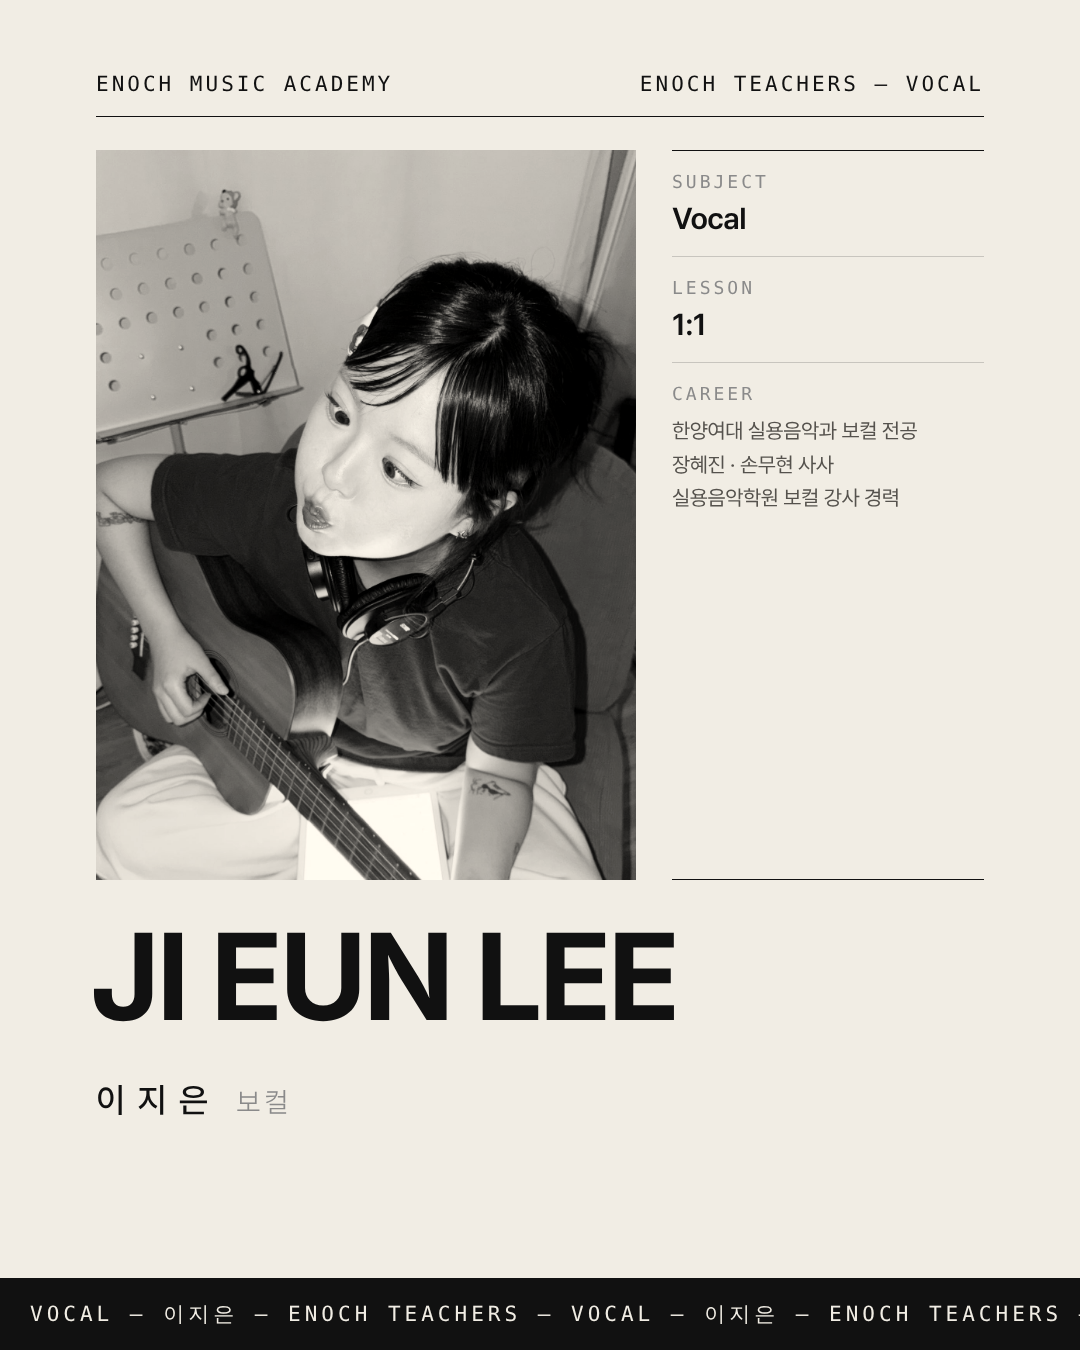
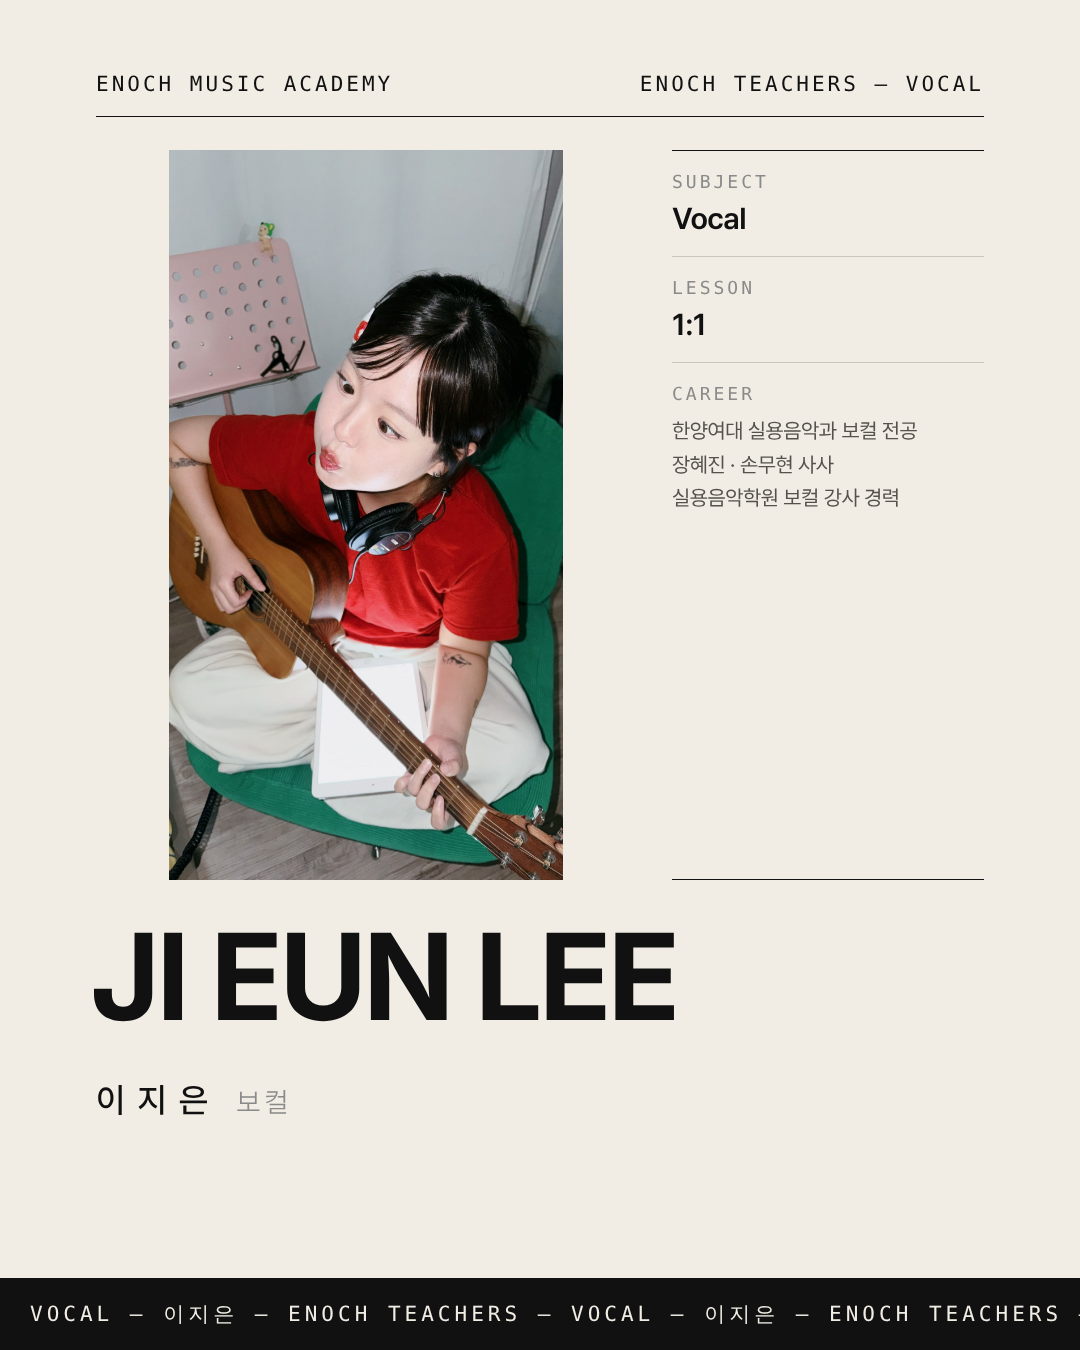
강사 소개 이지은: 블로그 재작성(성격 · 장혜진 사사), 썸네일 · 피드1 전신 컬러
Claude-Session: https://claude.ai/code/session_01HGbZvgMeYrbU7mY8bwfjyb

Changed region(s): [[0.0917, 0.0933, 0.6111, 0.6533]]

diff --git a/output/강사소개_이지은/thumb.html b/output/강사소개_이지은/thumb.html
@@ -1,38 +1,36 @@
-<!doctype html><html lang="ko"><head><meta charset="utf-8"><title>강사 소개 이지은 썸네일 1:1</title><style>
+<!doctype html><html lang="ko"><head><meta charset="utf-8"><title>강사 소개 이지은 썸네일 1:1</title>
+<!-- 블로그 썸네일 1080×1080. 전신이 다 나오게, 컬러 그대로 (2026-11-28 원장님). CHROMIUM_PATH=... node thumb.mjs → thumb.png -->
+<style>
 @font-face{font-family:P;src:url(../../templates/fonts/Pretendard-Light.woff2);font-weight:300}
 @font-face{font-family:P;src:url(../../templates/fonts/Pretendard-Regular.woff2);font-weight:400}
 @font-face{font-family:P;src:url(../../templates/fonts/Pretendard-SemiBold.woff2);font-weight:600}
 @font-face{font-family:P;src:url(../../templates/fonts/Pretendard-Bold.woff2);font-weight:700}
-:root{--iv:#F1EDE4;--bk:#111;--g:#8A8A8A;--b:#55524D;--mono:"IBM Plex Mono","DejaVu Sans Mono",monospace;--en:"Helvetica Neue",Helvetica,Arial,"Liberation Sans",P,sans-serif}
+:root{--iv:#F1EDE4;--bk:#111;--g:#8A8A8A;--mono:"IBM Plex Mono","DejaVu Sans Mono",monospace;--en:"Helvetica Neue",Helvetica,Arial,"Liberation Sans",P,sans-serif}
 *{box-sizing:border-box;margin:0;padding:0}
-.s{width:1080px;height:1350px;position:relative;overflow:hidden;background:var(--iv);color:var(--bk);font-family:P,sans-serif;margin-bottom:40px;word-break:keep-all}
-.hd{position:absolute;left:96px;right:96px;top:72px;display:flex;justify-content:space-between;font-family:var(--mono);font-size:21px;letter-spacing:3px;padding-bottom:20px;border-bottom:1.5px solid currentColor}
-.ft{position:absolute;left:96px;right:96px;bottom:60px;display:flex;justify-content:space-between;font-family:var(--mono);font-size:20px;letter-spacing:2px;padding-top:20px;border-top:1.5px solid currentColor}
-.ft span:first-child{font-family:P,sans-serif;letter-spacing:0;font-size:21px}
-.k{font-family:var(--mono);font-size:19px;letter-spacing:3px;color:var(--g);text-transform:uppercase}
-.ph{position:absolute;background:#111 url(../../images/강사/이지은_01.jpg) no-repeat}
-.en{font-family:var(--en);font-weight:700;letter-spacing:-3px;line-height:.95}
-.row{display:grid;grid-template-columns:170px 1fr;padding:22px 0;border-bottom:1px solid rgba(17,17,17,.16);font-size:27px;line-height:1.55;letter-spacing:-.5px}
-.row .k{padding-top:6px}
-.dark{background:var(--bk);color:var(--iv)}
-.big{position:absolute;left:92px;font-family:var(--en);font-weight:700;letter-spacing:-5px;line-height:.92}
-.ko2{position:absolute;left:96px;right:96px;font-size:44px;font-weight:600;letter-spacing:-1.5px;line-height:1.4}
-.sub{position:absolute;left:96px;right:96px;font-size:28px;line-height:1.7;color:var(--b);letter-spacing:-.5px}
-.dark .sub{color:#C9C4BB}
-.lbl{position:absolute;left:96px;top:190px}
-.tl{position:absolute;left:96px;right:96px;top:250px;border-top:1.5px solid currentColor}
-.tl .row{grid-template-columns:160px 1fr;padding:19px 0;font-size:28px}
-.tl .row i{font-style:normal;color:var(--g);font-weight:300}
-.dark .row{border-bottom-color:rgba(241,237,228,.16)}
-.two{position:absolute;left:96px;right:96px;top:250px;columns:2;column-gap:40px;font-size:27px;line-height:1.55;letter-spacing:-.4px}
-.two div{break-inside:avoid;padding:12px 0;border-bottom:1px solid rgba(241,237,228,.14)}
-.two i{font-style:normal;color:#8C8C8C;font-weight:300}
-#b5 .row{padding:13px 0}
+.s{width:1080px;height:1080px;position:relative;overflow:hidden;background:var(--iv);color:var(--bk);font-family:P,sans-serif;word-break:keep-all}
+.s>div{position:absolute}
+.hd{left:96px;right:96px;top:72px;display:flex;justify-content:space-between;font-family:var(--mono);font-size:21px;letter-spacing:3px;padding-bottom:20px;border-bottom:1.5px solid currentColor}
+.ph{right:96px;top:146px;width:452px;height:836px;background:url(../../images/강사/이지은_01.jpg) 50% 50%/cover}
+.lab{left:96px;top:186px;font-family:var(--mono);font-size:20px;letter-spacing:3px;color:var(--g)}
+.en{left:92px;top:226px;font-family:var(--en);font-weight:700;font-size:124px;letter-spacing:-4px;line-height:.92}
+.ko{left:96px;top:480px;font-size:36px;letter-spacing:10px}
+.ko span{font-size:28px;letter-spacing:2px;color:var(--g);margin-left:10px}
+.rows{left:96px;width:400px;top:600px;border-top:1.5px solid var(--bk)}
+.rows div{padding:16px 0;border-bottom:1px solid rgba(17,17,17,.16);font-size:24px;line-height:1.45;letter-spacing:-.4px}
+.rows i{font-style:normal;color:var(--g)}
+.ft{left:96px;width:400px;top:900px;font-size:22px;display:flex;flex-direction:column;gap:10px}
+.ft span:last-child{font-family:var(--mono);letter-spacing:2px}
 </style></head><body>
-<section class="s" style="height:1080px;margin:0"><div class="hd"><span>ENOCH MUSIC ACADEMY</span><span>ENOCH TEACHERS — VOCAL</span></div>
-<div class="ph" style="left:96px;right:96px;top:146px;height:600px;background-size:cover;background-position:50% 24%;filter:grayscale(1) sepia(.16) contrast(1.05)"></div>
-<div class="en" style="position:absolute;left:92px;top:782px;font-size:112px">JI EUN LEE</div>
-<div style="position:absolute;left:96px;top:900px;font-size:32px;letter-spacing:10px">이지은 <span style="color:var(--g);letter-spacing:2px;font-size:26px;margin-left:12px">보컬</span></div>
-<div class="ft" style="bottom:48px"><span style="font-family:P,sans-serif;letter-spacing:0">시흥 보컬학원 · 강사 소개</span><span>031 315 3666</span></div>
-</section>
-</body></html>
+<section class="s">
+<div class="hd"><span>ENOCH MUSIC ACADEMY</span><span>ENOCH TEACHERS — VOCAL</span></div>
+<div class="ph"></div>
+<div class="lab">VOCAL · 1:1 LESSON</div>
+<div class="en">JI EUN<br>LEE</div>
+<div class="ko">이지은<span>보컬</span></div>
+<div class="rows">
+ <div>한양여자대학교 실용음악과 <i>보컬 전공</i></div>
+ <div>장혜진 · 손무현 <i>사사</i></div>
+ <div>취미 · 입시 보컬 <i>1:1 레슨</i></div>
+</div>
+<div class="ft"><span>시흥 보컬학원 · 강사 소개</span><span>031 315 3666</span></div>
+</section></body></html>

diff --git a/output/강사소개_이지은/feed.html b/output/강사소개_이지은/feed.html
@@ -44,6 +44,7 @@
 
 #f2 .sec{padding:36px 0}
 #f2 .sec li{font-size:28px}
+#f1 .ph{left:169px;width:394px;background-size:cover;background-position:50% 50%;filter:none}
 </style></head><body>
 <section class="s" id="f1">
   <div class="hd"><span>ENOCH MUSIC ACADEMY</span><span>ENOCH TEACHERS — VOCAL</span></div>

diff --git a/output/강사소개_이지은/build.py b/output/강사소개_이지은/build.py
@@ -17,6 +17,7 @@ f = open(os.path.join(BASE, 'feed.html'), encoding='utf-8').read()
 head = f[:f.index('</style>')]
 head = head.replace('강사 소개 한상희 피드', '강사 소개 이지은 피드').replace('한상희_01.jpg) 50% 28%', '이지은_01.jpg) 50% 22%')
 head += '\n#f2 .sec{padding:36px 0}\n#f2 .sec li{font-size:28px}\n'
+head += '#f1 .ph{left:169px;width:394px;background-size:cover;background-position:50% 50%;filter:none}\n'  # 전신 · 컬러 (2026-11-28 원장님)
 info = ('<div class="info"><span>에녹실용음악학원 시흥점<br><span style="color:#9A958C">경기도 시흥시 은행로 157 2층</span></span>'
         '<span style="text-align:right;font-family:var(--mono)">031 315 3666<br><span style="color:#9A958C;font-family:P,sans-serif;font-size:19px">'
         'Vocal · Guitar · Drum · Bass · Piano · MIDI · 작곡</span></span></div>')

diff --git a/output/강사소개_이지은/blog.md b/output/강사소개_이지은/blog.md
@@ -2,34 +2,48 @@
 
 - 타겟: 보컬 취미 · 성인, 보컬 입시생
 - 대표 키워드: 시흥보컬학원 / 보조: 시흥실용음악학원, 대야역 음악학원
-- 근거: 강사님 제공 약력(`site/data/teachers.json`, `build.py`). 약력에 없는 내용은 쓰지 않음
-- 이미지: thumb.png(대표 1:1) → feed_01 · feed_02 · story_01 · feed_03
+- 근거: 강사님 제공 약력(`site/data/teachers.json`, `build.py`) + 원장님이 알려 준 성격 · 수업 장점 (외향적이고 귀여운 성격과 취향, 취미반 · 입시반 모두 친근하게 다가가 재미있게 수업, 2026-11-28)
+- 장혜진: 원장님 확인 — 가수 장혜진. 대표곡은 널리 알려진 곡만 언급, 사사 내용(무엇을 배웠는지)은 지어내지 않음
+- 이미지: thumb.png(대표 1:1, 전신 컬러) → feed_01(전신 컬러) · feed_02 · story_01 · feed_03
 
-## 제목
-시흥보컬학원 | 이지은 선생님 소개 (한양여대 실용음악과 보컬 · 장혜진 · 손무현 사사)
+## 제목 후보
+1. 시흥보컬학원 | 이지은 선생님 소개 (가수 장혜진 사사 · 한양여대 실용음악과 보컬)
+2. 시흥보컬학원 | 노래가 즐거워지는 1:1 보컬 레슨, 이지은 선생님
+3. 시흥보컬학원 | 장혜진에게 배운 보컬, 이지은 선생님을 소개합니다
 
 ## 본문
-노래를 배우려고 학원을 알아보다 보면.. 결국 제일 궁금한 건 "누가 가르치는지"인 것 같아요. 오늘은 에녹실용음악학원 시흥점에서 보컬을 맡고 계신 이지은 선생님을 소개하려고 합니다.
+노래를 배우려고 학원을 알아보다 보면.. 결국 제일 궁금한 건 "누가 가르치는지"인 것 같아요. 실력은 기본이고, 그 사람 앞에서 편하게 노래할 수 있는지도 꽤 중요하거든요.
+
+오늘은 에녹실용음악학원 시흥점에서 보컬을 맡고 계신 이지은 선생님을 소개하려고 합니다.
 
 [이미지: thumb.png — 대표 이미지]
 
 [이미지: feed_01]
 
-## 보컬을 전공한 사람
-이지은 선생님은 한양여자대학교 실용음악과에서 보컬을 전공했습니다. 그리고 장혜진, 손무현 선생님께 사사했어요.
+## 가수 장혜진에게 배운 보컬
+이지은 선생님은 한양여자대학교 실용음악과에서 보컬을 전공했습니다. 그리고 가수 장혜진, 손무현 선생님께 사사했어요.
 
-노래는 결국 사람에게서 사람에게로 전해지는 거라.. 누구에게 어떻게 배웠는지가 그 사람의 노래에 꽤 오래 남는다고 생각합니다. 그렇게 배운 것을 이제 다음 사람에게 전하고 계신 선생님이에요.
+장혜진은 「1994년 어느 늦은 밤」, 「아름다운 날들」로 많은 분들이 기억하는 가수입니다. 오랜 시간 무대에서 노래로 사람들의 마음을 움직여 온 가수에게 직접 배웠다는 건.. 교재로는 배울 수 없는 것들을 가까이에서 보고 들으며 자랐다는 뜻이라고 생각해요.
+
+노래는 결국 사람에게서 사람에게로 전해집니다. 그렇게 받은 것을 이제 선생님이 다음 사람에게 전하고 계세요.
 
 [이미지: feed_02]
+
+## 노래가 즐거워지는 수업
+이지은 선생님을 한 문장으로 소개하자면, "만나면 기분이 좋아지는 선생님"입니다.
+
+외향적이고 밝은 성격에, 귀여운 것들을 좋아하는 취향까지. 수업에 처음 들어온 분도 금방 긴장이 풀릴 만큼 친근하게 다가가는 게 선생님의 큰 장점이에요. 노래는 몸이 굳으면 소리도 같이 굳는 악기라.. 편하게 소리 낼 수 있는 분위기를 만드는 것도 실력이라고 생각합니다.
+
+그래서 취미반이든 입시반이든, 수업이 재미있게 흘러가요. 취미로 오신 분은 노래하는 시간이 기다려지게, 입시를 준비하는 분은 긴 준비 기간을 지치지 않고 이어 갈 수 있게. 즐겁게 하되, 짚어야 할 건 정확하게 짚는 수업입니다.
+
+[이미지: story_01]
 
 ## 여러 사람의 목소리를 들어 온 경험
 선생님은 여러 실용음악학원에서 보컬 강사로 수업을 해 왔고, 지금은 에녹실용음악학원 시흥점에서 보컬을 가르치고 계십니다.
 
-목소리는 사람마다 정말 다르거든요. 같은 노래도 누가 부르느냐에 따라 잘 맞는 방법이 달라지고요. 여러 사람의 목소리를 오래 들어 왔다는 건, 그만큼 한 사람에게 맞는 길을 찾는 데 익숙하다는 뜻이기도 한 것 같아요.
+목소리는 사람마다 정말 다르거든요. 같은 노래도 누가 부르느냐에 따라 맞는 방법이 달라지고요. 여러 사람의 목소리를 오래 들어 왔다는 건, 그만큼 한 사람에게 맞는 길을 찾는 데 익숙하다는 뜻이기도 합니다.
 
-[이미지: story_01]
-
-## 내 목소리에 맞는 노래를
+## 내 목소리에 맞는 노래를, 1:1로
 에녹의 레슨은 입시 · 취미 · 성인 · 전문, 모든 과정이 1:1입니다. 같은 곡도 사람마다 다르게 가르친다는 게 저희 원칙이라, 보컬도 한 사람의 목소리와 속도에 맞춰 시작해요.
 
 좋아하는 노래 한 곡이 있다면 그걸로 시작해도 괜찮습니다. 처음이라도, 오랜만에 다시 불러 보는 거라도요.
@@ -37,7 +51,7 @@
 [이미지: feed_03]
 
 ## 시흥에서 보컬을 배우고 싶다면
-나에게 맞는 선생님인지는 직접 만나 보는 게 제일 정확하다고 생각합니다.
+나에게 맞는 선생님인지는 직접 만나 보는 게 제일 정확하다고 생각합니다. 이지은 선생님이라면, 첫 만남부터 아마 꽤 즐거우실 거예요.
 
 시흥실용음악학원을 찾고 계셨다면, 네이버 플레이스에서 체험수업을 예약하시거나 네이버 톡톡 · 카카오톡 채널 · 전화(031 315 3666)로 방문 상담을 잡아 주세요.
 
@@ -53,4 +67,4 @@
 [지도: 네이버 지도 '에녹실용음악학원 시흥점' 장소 첨부]
 
 ## 태그
-#시흥보컬학원 #시흥실용음악학원 #대야역음악학원 #은행동실용음악학원 #보컬레슨 #취미보컬 #성인보컬 #보컬입시 #1대1레슨 #이지은 #에녹실용음악학원
+#시흥보컬학원 #시흥실용음악학원 #대야역음악학원 #은행동실용음악학원 #보컬레슨 #취미보컬 #성인보컬 #보컬입시 #장혜진 #1대1레슨 #이지은 #에녹실용음악학원
